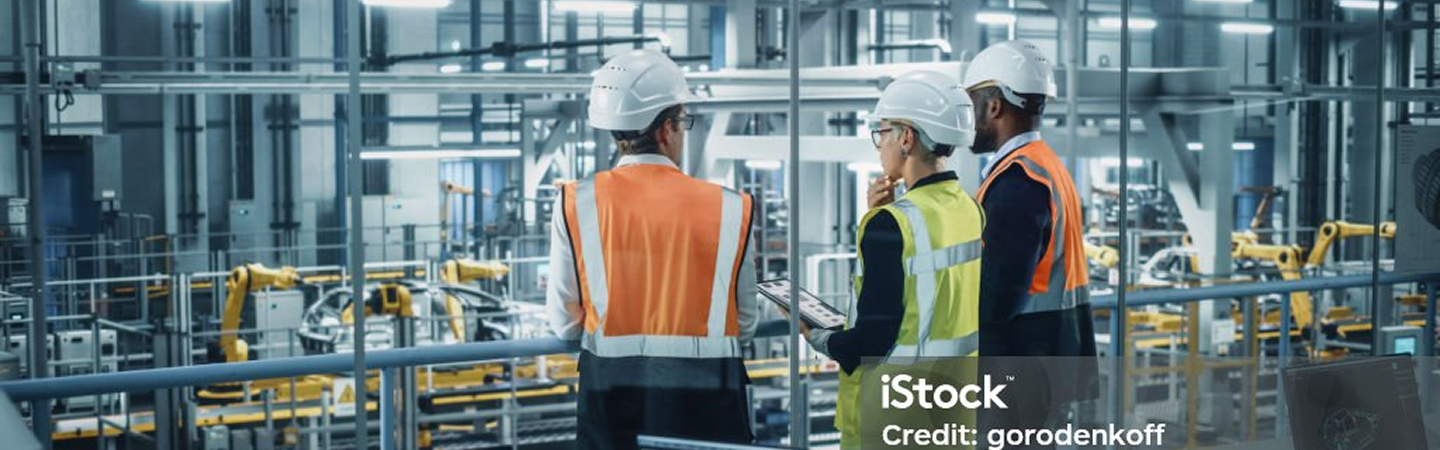
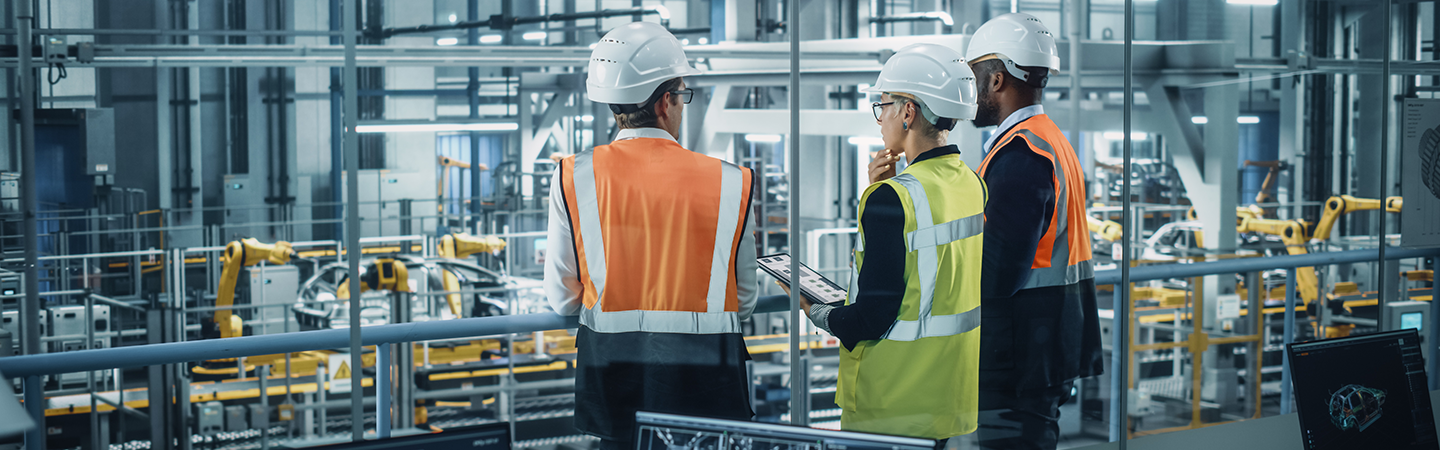
images changed and about vision care padding top fixed

diff --git a/src/app/blogs/Components/TabBlogs.jsx b/src/app/blogs/Components/TabBlogs.jsx
@@ -1992,9 +1992,9 @@ const PRESS_RELEASES = [
   {
     id: 4,
     title:
-      "KSH INFRA ₹1000 Cr Expansion in Tamil Nadu Industrial & Logistics Space",
+      "KSH INFRA ₹1000 Cr. Expansion in Tamil Nadu Industrial & Logistics Space",
     content:
-      "KSH INFRA ₹1000 Cr Expansion in Tamil Nadu Industrial & Logistics Space",
+      "KSH INFRA ₹1000 Cr. Expansion in Tamil Nadu Industrial & Logistics Space",
     image: "/press/press7.webp",
     href: "https://economictimes.indiatimes.com/industry/services/property-/-cstruction/ksh-infra-to-invest-over-rs-550-crore-in-60-acre-logistics-park-in-tamil-nadu/articleshow/122392746.cms?from=mdr",
     newTab: true,

diff --git a/src/app/about-ksh/AboutComponents/AboutVision.jsx b/src/app/about-ksh/AboutComponents/AboutVision.jsx
@@ -234,7 +234,9 @@ const AboutVision = () => {
                       "linear-gradient(to top right, rgba(221, 221, 221, 0), rgba(185, 140, 140, 0.70)) 30",
                   }}
                 >
-                  <h1 className="text-3xl fpt-600 lg:pt-5 text-white ">Care</h1>
+                  <h1 className="text-3xl fpt-600 pb-[6px] text-white pt-5 ">
+                    Care
+                  </h1>
                   <p className="text-[#C1C1C1] text-sm ">
                     Care for people, communities, and the planet. With care we
                     foster a supportive, inclusive, and respectful workplace
